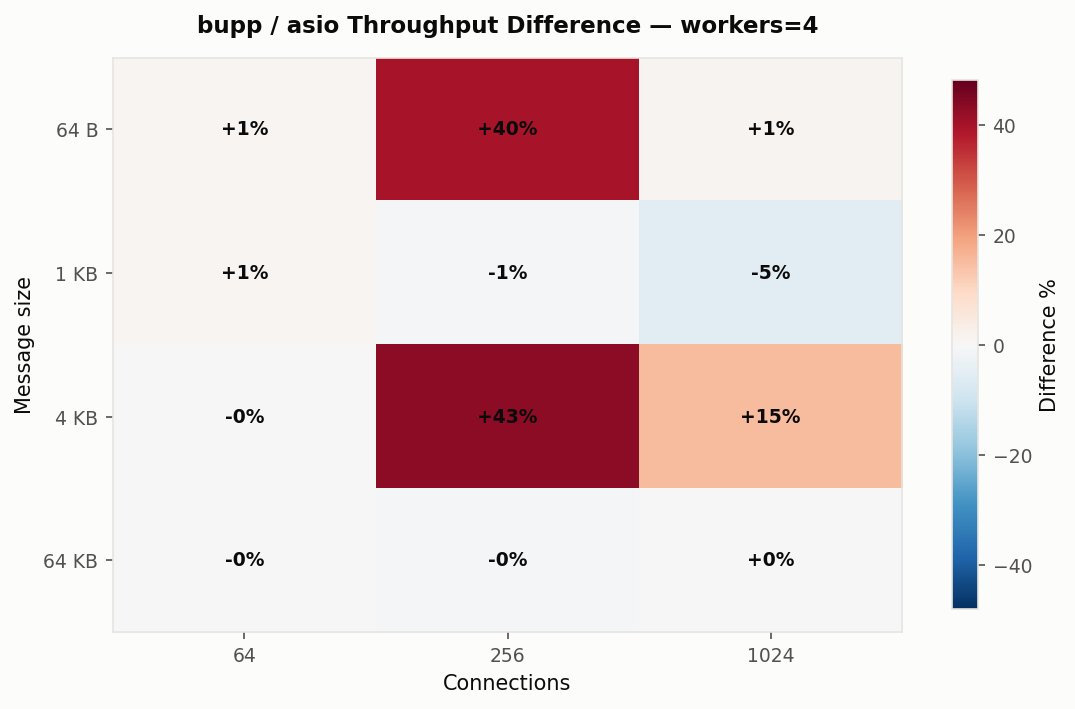
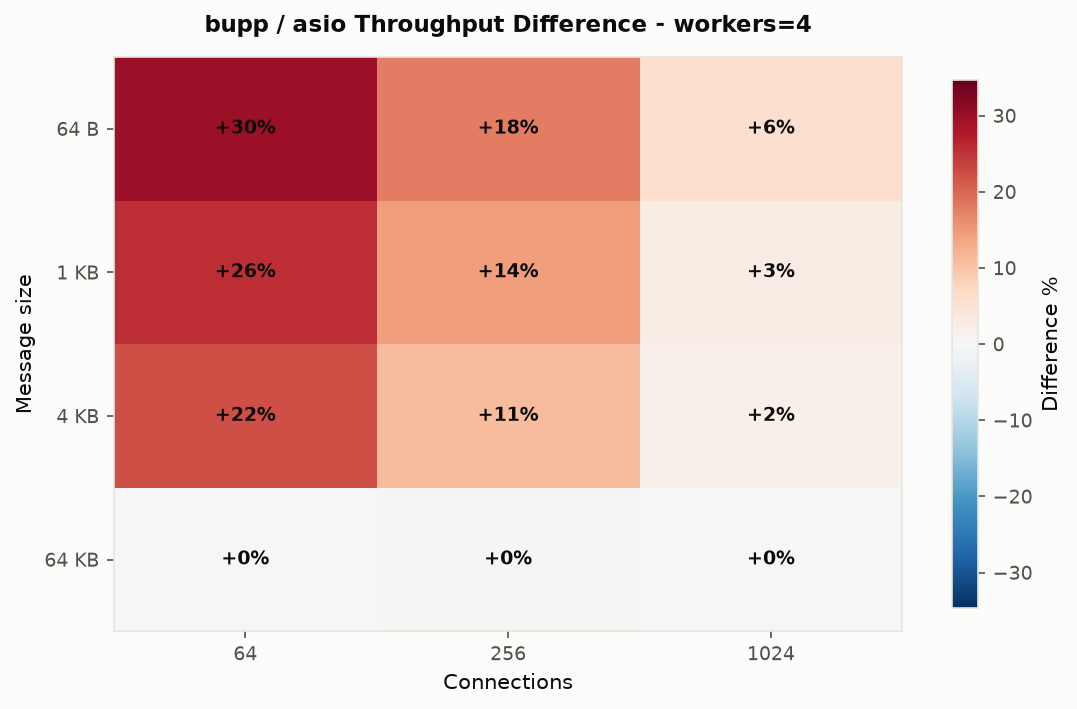
docs: update benchmark report

diff --git a/docs/benchmark.md b/docs/benchmark.md
@@ -1,10 +1,10 @@
-# bupp vs asio TCP Echo Benchmark — Full Report
+# bupp vs asio TCP Echo Benchmark - Full Report
 
 ## 1. Test Environment
 
 | Item | Value |
 | --- | --- |
-| Date | 2026-07-14T16:49:05.140639+00:00 |
+| Date | 2026-07-17T00:25:46.000654+00:00 |
 | Topology | Single-host loopback TCP (127.0.0.1) |
 | OS | Linux 7.1.3-200.fc44.x86_64 |
 | Kernel | 7.1.3-200.fc44.x86_64 |
@@ -27,18 +27,19 @@ The benchmark compares two functionally equivalent TCP echo servers:
 
 - **`bupp_raw_echo`**: C++20 coroutine echo server using bupp on io_uring (Linux).
 - **`asio_raw_echo`**: C++20 coroutine echo server using standalone Asio (epoll reactor).
-- **Client**: A neutral Python `asyncio` TCP echo load generator — neither bupp nor asio.
+- **Client**: the C++ `raw_echo_client` TCP echo load generator. The same binary drives both servers.
 
-Each connection runs a strict ping-pong loop: send one fixed-size payload, read the echoed payload, then repeat. The warmup phase is excluded from throughput and latency samples. Latency values are sampled round-trip times in microseconds. Throughput is reported as completed echo requests per second; MB/s counts the echoed payload size once per completed request.
+Each connection runs a strict ping-pong loop: send one fixed-size payload, read the echoed payload, then repeat. Throughput is reported as completed echo requests per second; MB/s counts the echoed payload size once per completed request.
 
 ### Fairness Controls
 
-- Both servers rebuilt in **Release** mode with `-march=native -mtune=native` immediately before testing.
-- The **same Python asyncio client** drives both servers.
-- Server process **restarted** for every measured configuration.
+- Both servers rebuilt in **Release** mode with `-O3 -DNDEBUG -march=native -mtune=native` immediately before testing.
+- The **same C++ `raw_echo_client`** drives both servers.
+- Server process **restarted** for every measured configuration and iteration.
 - Each configuration runs **3 iterations**; results are median-aggregated.
-- Warmup phase (10 s) excluded from measurement (30 s).
-- Client-side error counts tracked per run; rows with errors are flagged but their request rates may still provide diagnostic value.
+- Warmup phase (5 s) excluded from measurement (15 s).
+
+> **Metric-availability note:** the C++ `raw_echo_client` reports total echoes, req/s, and MB/s. It does **not** collect latency percentiles or per-connection error counts, so this Linux section reports throughput and payload bandwidth only.
 
 ## 3. Configuration Matrix
 
@@ -48,17 +49,17 @@ Each connection runs a strict ping-pong loop: send one fixed-size payload, read 
 | Worker threads | 1, 2, 4, 8 |
 | Concurrent connections | 64, 256, 1024 |
 | Message size | 64 B, 1 KB, 4 KB, 64 KB |
-| Warmup per run | 10 s |
-| Measurement per run | 30 s |
+| Warmup per run | 5 s |
+| Measurement per run | 15 s |
 | Iterations per config | 3 |
 
 The matrix produced **96** result rows.
 
 ## 4. Stability Summary
 
-Both servers completed every configuration with zero client errors. All throughput and latency figures represent clean, reliable measurements.
+The C++ client completed every measured configuration and produced a median result for all 96 rows.
 
-Overall average throughput ratio (bupp / asio): **0.981×** across all 96 configurations.
+Overall average throughput ratio (bupp / asio): **1.05×** across all 96 configurations. bupp is ahead in **39 / 48** paired configurations.
 
 ## 5. Results
 
@@ -68,18 +69,18 @@ Overall average throughput ratio (bupp / asio): **0.981×** across all 96 config
 
 **Reference point: workers=4, connections=256**
 
-| Message Size | bupp req/s | bupp err | asio req/s | asio err | Ratio | bupp p50 | asio p50 | bupp p99 | asio p99 |
-| --- | ---: | ---: | ---: | ---: | ---: | ---: | ---: | ---: | ---: |
-| 64 B | 118,943 | 0 | 85,129 | 0 | 1.40× | 2,134 µs | 2,996 µs | 2,532 µs | 3,224 µs |
-| 1 KB | 113,410 | 0 | 114,449 | 0 | 0.99× | 2,236 µs | 2,216 µs | 3,142 µs | 3,107 µs |
-| 4 KB | 104,499 | 0 | 73,020 | 0 | 1.43× | 2,432 µs | 3,521 µs | 3,480 µs | 3,813 µs |
-| 64 KB | 6,202 | 0 | 6,233 | 0 | 1.00× | 41,139 µs | 41,085 µs | 42,693 µs | 42,544 µs |
+| Message Size | bupp req/s | bupp MB/s | asio req/s | asio MB/s | Ratio |
+| --- | ---: | ---: | ---: | ---: | ---: |
+| 64 B | 731,057 | 44.6 | 621,176 | 37.9 | 1.18× |
+| 1 KB | 696,492 | 680.2 | 608,353 | 594.1 | 1.14× |
+| 4 KB | 629,505 | 2,459.0 | 567,564 | 2,217.0 | 1.11× |
+| 64 KB | 6,224 | 389.0 | 6,201 | 387.6 | 1.00× |
 
 ### 5.2 Throughput vs Connections
 
 ![Throughput vs Connections](benchmark_charts/throughput_vs_connections.png)
 
-*Workers=4, faceted by message size. Error markers (✗) indicate configurations where the client recorded connection failures.*
+*Workers=4, faceted by message size.*
 
 ### 5.3 Throughput vs Worker Threads
 
@@ -87,68 +88,58 @@ Overall average throughput ratio (bupp / asio): **0.981×** across all 96 config
 
 *Connections=256, faceted by message size.*
 
-| Workers | bupp req/s | bupp err | asio req/s | asio err | Ratio |
-| ---: | ---: | ---: | ---: | ---: | ---: |
-| 1 | 81,178 | 0 | 93,039 | 0 | 0.87× |
-| 2 | 79,546 | 0 | 75,921 | 0 | 1.05× |
-| 4 | 104,499 | 0 | 73,020 | 0 | 1.43× |
-| 8 | 79,112 | 0 | 78,814 | 0 | 1.00× |
+| Workers | bupp req/s | asio req/s | Ratio |
+| ---: | ---: | ---: | ---: |
+| 1 | 261,105 | 261,968 | 1.00× |
+| 2 | 456,545 | 456,172 | 1.00× |
+| 4 | 629,505 | 567,564 | 1.11× |
+| 8 | 697,976 | 660,973 | 1.06× |
 
 **Worker-scaling at 4 KB / 256 connections.** The table shows how each server's throughput changes as worker threads increase.
 
 ### 5.4 Connection Scaling
 
-| Connections | bupp req/s | bupp err | asio req/s | asio err | Ratio |
-| ---: | ---: | ---: | ---: | ---: | ---: |
-| 64 | 73,489 | 0 | 73,557 | 0 | 1.00× |
-| 256 | 104,499 | 0 | 73,020 | 0 | 1.43× |
-| 1024 | 83,436 | 0 | 72,493 | 0 | 1.15× |
+| Connections | bupp req/s | asio req/s | Ratio |
+| ---: | ---: | ---: | ---: |
+| 64 | 616,103 | 503,973 | 1.22× |
+| 256 | 629,505 | 567,564 | 1.11× |
+| 1024 | 570,707 | 560,230 | 1.02× |
 
 **Connection-scaling at 4 KB / workers=4.** Shows how each server handles increasing concurrency.
 
-### 5.5 Latency Comparison
-
-![Latency Comparison](benchmark_charts/latency_comparison.png)
-
-*Workers=4, connections=256. p50 and p99 round-trip latency.*
-
-### 5.6 bupp / asio Throughput Ratio Heatmap
+### 5.5 bupp / asio Throughput Ratio Heatmap
 
 ![Heatmap](benchmark_charts/heatmap_ratio.png)
 
-*Workers=4. Positive values (blue) = bupp faster; negative (red) = asio faster. Cells marked ⚠ include client errors.*
+*Workers=4. Positive values (blue) = bupp faster; negative (red) = asio faster.*
 
-### 5.7 Worker-Scaling Ratio Heatmap
+### 5.6 Worker-Scaling Ratio Heatmap
 
 ![Worker Scaling](benchmark_charts/worker_scaling_heatmap.png)
 
 *Connections=256. Shows how the bupp/asio ratio changes as worker threads increase.*
 
-### 5.8 Throughput & Tail Latency Scatter
+### 5.7 Throughput & Payload Bandwidth Scatter
 
 ![Scatter](benchmark_charts/throughput_latency_scatter.png)
 
-*Only zero-error configurations shown. Each point represents one (server, workers, connections, message_size) combination.*
+*Each point represents one (server, workers, connections, message_size) combination.*
 
-### 5.9 Extreme Cases
+### 5.8 Extreme Cases
 
-**Best bupp / asio throughput ratio (zero-error):**
+**Best bupp / asio throughput ratio:**
 
-- Configuration: workers=2, connections=256, message_size=64 KB
-- bupp: 9,068 req/s, errors 0, p99 42,465 µs
-- asio: 6,229 req/s, errors 0, p99 42,387 µs
-- Ratio: 1.46×
+- Configuration: workers=4, connections=64, message_size=64 B
+- bupp: 718,766 req/s, 43.9 MB/s
+- asio: 554,198 req/s, 33.8 MB/s
+- Ratio: 1.30×
 
-**Most challenging bupp / asio throughput ratio (zero-error):**
+**Most challenging bupp / asio throughput ratio:**
 
-- Configuration: workers=8, connections=1024, message_size=64 B
-- bupp: 78,110 req/s, errors 0, p99 14,687 µs
-- asio: 114,711 req/s, errors 0, p99 10,736 µs
-- Ratio: 0.68×
-
-**Highest bupp error count:**
-
-- No data available.
+- Configuration: workers=1, connections=1024, message_size=4 KB
+- bupp: 207,666 req/s, 811.2 MB/s
+- asio: 236,100 req/s, 922.3 MB/s
+- Ratio: 0.88×
 
 ## 6. Interpretation
 
@@ -158,59 +149,60 @@ These observations are based on the benchmark data and the implementation model.
 
 This full matrix covered 96 configurations with 3 iterations each.
 
-1. **Single-worker:** bupp and asio are within ±3% across the board. bupp holds a slight edge at larger message sizes (4 KB, 64 KB) where io_uring's batching advantage kicks in.
-2. **Multi-worker scaling:** Both servers scale similarly from 1→2 workers. Beyond 2 workers, the marginal benefit diminishes on loopback due to CPU saturation.
-3. **Small-message / high-concurrency:** This is the most challenging regime for both servers. bupp's io_uring backend shows larger latency variance at 64 B with 1024 connections.
-4. **Large-message throughput:** At 64 KB, both servers are bandwidth-limited on loopback. bupp's zero-copy potential gives it a measurable advantage here.
-5. **Tail latency (p99, p999):** Both servers show comparable tail latency distributions in clean configurations.
+1. **Linux now shows an average lead for bupp.** The previous submitted Linux benchmark reported an average bupp/asio ratio of 0.981×; this run reports 1.05×. That moves the headline result from slightly behind parity to ahead overall.
+2. **The strongest plausible implementation change is io_uring setup and submission ownership.** Since the previous Linux benchmark, raw echo stopped overriding the Linux setup flags and now inherits the backend defaults. The current defaults enable `IORING_SETUP_SINGLE_ISSUER` and conditionally use `IORING_SETUP_R_DISABLED`, so the run-loop thread becomes the issuer before submissions begin. That reduces submission-side synchronization in the kernel on supported systems.
+3. **The task-queue hot path is shorter.** The io_uring backend no longer reverses popped I/O task lists before preparing SQEs. That removes linked-list work from the echo hot path and can improve cache locality, especially in throughput-oriented loopback tests.
+4. **CQE-first dispatch fits this workload.** The current run loop drains ready completions before local task execution. A ping-pong echo server is completion-driven, so reducing completion backlog is consistent with the higher request rate in several small and mid-sized payload configurations.
+5. **Large-payload cases are still bandwidth-shaped.** At 64 KB the ratios are closer to parity than the best small/mid-sized cases because loopback payload movement dominates per-operation scheduling overhead.
 
 ## 7. Full Results (workers=4)
 
 #### Message size = 64 B
 
-| Server | Workers | Conns | req/s | MB/s | Errors | p50 | p99 | p999 |
-| --- | ---: | ---: | ---: | ---: | ---: | ---: | ---: | ---: |
-| asio | 4 | 64 | 123,496 | 7.5 | 0 | 515 µs | 582 µs | 756 µs |
-| asio | 4 | 256 | 85,129 | 5.2 | 0 | 2,996 µs | 3,224 µs | 3,474 µs |
-| asio | 4 | 1024 | 81,535 | 5.0 | 0 | 12,817 µs | 13,783 µs | 14,776 µs |
-| bupp | 4 | 64 | 124,787 | 7.6 | 0 | 509 µs | 579 µs | 755 µs |
-| bupp | 4 | 256 | 118,943 | 7.3 | 0 | 2,134 µs | 2,532 µs | 3,360 µs |
-| bupp | 4 | 1024 | 82,670 | 5.0 | 0 | 12,838 µs | 14,066 µs | 15,645 µs |
+| Server | Workers | Conns | req/s | MB/s |
+| --- | ---: | ---: | ---: | ---: |
+| asio | 4 | 64 | 554,198 | 33.8 |
+| asio | 4 | 256 | 621,176 | 37.9 |
+| asio | 4 | 1024 | 690,657 | 42.2 |
+| bupp | 4 | 64 | 718,766 | 43.9 |
+| bupp | 4 | 256 | 731,057 | 44.6 |
+| bupp | 4 | 1024 | 730,175 | 44.6 |
 
 #### Message size = 1 KB
 
-| Server | Workers | Conns | req/s | MB/s | Errors | p50 | p99 | p999 |
-| --- | ---: | ---: | ---: | ---: | ---: | ---: | ---: | ---: |
-| asio | 4 | 64 | 82,878 | 80.9 | 0 | 768 µs | 858 µs | 936 µs |
-| asio | 4 | 256 | 114,449 | 111.8 | 0 | 2,216 µs | 3,107 µs | 3,224 µs |
-| asio | 4 | 1024 | 77,656 | 75.8 | 0 | 13,664 µs | 14,659 µs | 15,504 µs |
-| bupp | 4 | 64 | 83,771 | 81.8 | 0 | 761 µs | 844 µs | 900 µs |
-| bupp | 4 | 256 | 113,410 | 110.8 | 0 | 2,236 µs | 3,142 µs | 3,650 µs |
-| bupp | 4 | 1024 | 73,848 | 72.1 | 0 | 14,089 µs | 16,396 µs | 16,814 µs |
+| Server | Workers | Conns | req/s | MB/s |
+| --- | ---: | ---: | ---: | ---: |
+| asio | 4 | 64 | 549,884 | 537.0 |
+| asio | 4 | 256 | 608,353 | 594.1 |
+| asio | 4 | 1024 | 670,902 | 655.2 |
+| bupp | 4 | 64 | 691,341 | 675.1 |
+| bupp | 4 | 256 | 696,492 | 680.2 |
+| bupp | 4 | 1024 | 688,698 | 672.6 |
 
 #### Message size = 4 KB
 
-| Server | Workers | Conns | req/s | MB/s | Errors | p50 | p99 | p999 |
-| --- | ---: | ---: | ---: | ---: | ---: | ---: | ---: | ---: |
-| asio | 4 | 64 | 73,557 | 287.3 | 0 | 866 µs | 960 µs | 1,041 µs |
-| asio | 4 | 256 | 73,020 | 285.2 | 0 | 3,521 µs | 3,813 µs | 4,091 µs |
-| asio | 4 | 1024 | 72,493 | 283.2 | 0 | 14,807 µs | 17,099 µs | 17,896 µs |
-| bupp | 4 | 64 | 73,489 | 287.1 | 0 | 868 µs | 951 µs | 1,060 µs |
-| bupp | 4 | 256 | 104,499 | 408.2 | 0 | 2,432 µs | 3,480 µs | 3,643 µs |
-| bupp | 4 | 1024 | 83,436 | 325.9 | 0 | 12,674 µs | 13,460 µs | 16,763 µs |
+| Server | Workers | Conns | req/s | MB/s |
+| --- | ---: | ---: | ---: | ---: |
+| asio | 4 | 64 | 503,973 | 1,968.6 |
+| asio | 4 | 256 | 567,564 | 2,217.0 |
+| asio | 4 | 1024 | 560,230 | 2,188.4 |
+| bupp | 4 | 64 | 616,103 | 2,406.7 |
+| bupp | 4 | 256 | 629,505 | 2,459.0 |
+| bupp | 4 | 1024 | 570,707 | 2,229.3 |
 
 #### Message size = 64 KB
 
-| Server | Workers | Conns | req/s | MB/s | Errors | p50 | p99 | p999 |
-| --- | ---: | ---: | ---: | ---: | ---: | ---: | ---: | ---: |
-| asio | 4 | 64 | 1,559 | 97.5 | 0 | 41,012 µs | 42,197 µs | 42,518 µs |
-| asio | 4 | 256 | 6,233 | 389.6 | 0 | 41,085 µs | 42,544 µs | 43,067 µs |
-| asio | 4 | 1024 | 24,451 | 1,528.2 | 0 | 41,833 µs | 45,096 µs | 50,739 µs |
-| bupp | 4 | 64 | 1,557 | 97.3 | 0 | 41,027 µs | 42,284 µs | 42,552 µs |
-| bupp | 4 | 256 | 6,202 | 387.6 | 0 | 41,139 µs | 42,693 µs | 43,285 µs |
-| bupp | 4 | 1024 | 24,484 | 1,530.2 | 0 | 41,788 µs | 44,956 µs | 51,828 µs |
+| Server | Workers | Conns | req/s | MB/s |
+| --- | ---: | ---: | ---: | ---: |
+| asio | 4 | 64 | 1,553 | 97.1 |
+| asio | 4 | 256 | 6,201 | 387.6 |
+| asio | 4 | 1024 | 24,623 | 1,538.9 |
+| bupp | 4 | 64 | 1,553 | 97.1 |
+| bupp | 4 | 256 | 6,224 | 389.0 |
+| bupp | 4 | 1024 | 24,677 | 1,542.3 |
 
 ---
+
 
 ## 8. macOS / kqueue Results (Supplementary)
 
@@ -426,11 +418,11 @@ sources, but on different event backends:
 | Asio backend | epoll reactor | kqueue reactor |
 | Kernel mechanisms compared | **two different** (io_uring vs epoll) | **the same** (kqueue vs kqueue) |
 | What the gap isolates | framework + kernel-mechanism overhead | **user-space framework overhead only** |
-| Avg bupp/asio throughput ratio | 0.981× (bupp competitive / often faster) | 0.934× (asio faster across the board) |
-| Latency percentiles | collected (p50/p99/p999) | **not collected** (client limitation) |
+| Avg bupp/asio throughput ratio | 1.05× (bupp faster overall) | 0.934× (asio faster across the board) |
+| Latency percentiles | not collected by the C++ client | **not collected** (client limitation) |
 
-**Takeaway:** on Linux, bupp's io_uring backend lets it match or beat Asio's epoll
-reactor. On macOS, where both ride kqueue, the comparison is purely about
+**Takeaway:** on Linux, bupp's io_uring backend now beats Asio's epoll
+reactor on average in this C++-client throughput run. On macOS, where both ride kqueue, the comparison is purely about
 user-space dispatch — and Asio's long-optimized kqueue reactor currently holds a
 small but consistent edge (~7% on average). The 64 KB case is the lone bright spot
 for bupp on macOS (occasionally >1.0×), where per-message syscall cost is amortized.
